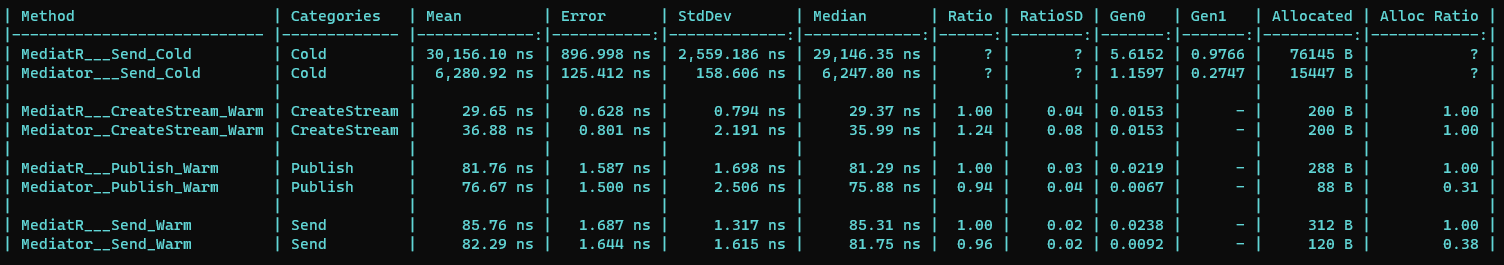
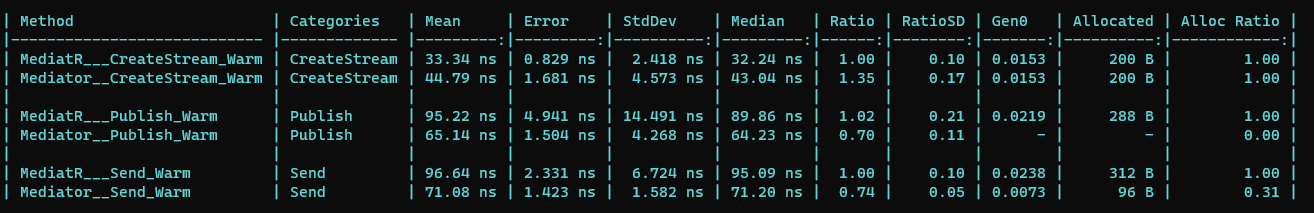
Update CQBus.Mediator to version 1.0.9 and refactor tests
- Bumped CQBus.Mediator package version in README.md.
- Modified benchmarks.png (specific changes not detailed).
- Changed return type of `Publish` method in TaskWhenAllPublisher from `async ValueTask` to `ValueTask`.
- Updated service lifetime assertions in MediatorConfigurationTests and DependencyInjectionTests from `Transient` to `Scoped`.

diff --git a/tests/Mediator.Tests/Configurations/MediatorConfigurationTests.cs b/tests/Mediator.Tests/Configurations/MediatorConfigurationTests.cs
@@ -79,7 +79,7 @@ public class MediatorConfigurationTests
         var options = new MediatorConfiguration();
 
         // Act & Assert
-        Assert.Equal(ServiceLifetime.Transient, options.ServiceLifetime);
+        Assert.Equal(ServiceLifetime.Scoped, options.ServiceLifetime);
     }
 
     [Fact]
@@ -141,7 +141,7 @@ public class MediatorConfigurationTests
         ServiceDescriptor descriptor = options.BehaviorsToRegister[0];
         Assert.Equal(serviceType, descriptor.ServiceType);
         Assert.Equal(implementationType, descriptor.ImplementationType);
-        Assert.Equal(ServiceLifetime.Transient, descriptor.Lifetime);
+        Assert.Equal(ServiceLifetime.Scoped, descriptor.Lifetime);
     }
 
     [Fact]
@@ -182,7 +182,7 @@ public class MediatorConfigurationTests
 
         Assert.Equal(serviceType1, descriptor1.ServiceType);
         Assert.Equal(implementationType1, descriptor1.ImplementationType);
-        Assert.Equal(ServiceLifetime.Transient, descriptor1.Lifetime);
+        Assert.Equal(ServiceLifetime.Scoped, descriptor1.Lifetime);
 
         Assert.Equal(serviceType2, descriptor2.ServiceType);
         Assert.Equal(implementationType2, descriptor2.ImplementationType);
@@ -247,7 +247,7 @@ public class MediatorConfigurationTests
         ServiceDescriptor descriptor = options.BehaviorsToRegister[0];
         Assert.Equal(typeof(IPipelineBehavior<,>), descriptor.ServiceType);
         Assert.Equal(behaviorType, descriptor.ImplementationType);
-        Assert.Equal(ServiceLifetime.Transient, descriptor.Lifetime);
+        Assert.Equal(ServiceLifetime.Scoped, descriptor.Lifetime);
     }
 
     [Fact]
@@ -311,7 +311,7 @@ public class MediatorConfigurationTests
         ServiceDescriptor descriptor = options.StreamBehaviorsToRegister[0];
         Assert.Equal(serviceType, descriptor.ServiceType);
         Assert.Equal(implementationType, descriptor.ImplementationType);
-        Assert.Equal(ServiceLifetime.Transient, descriptor.Lifetime);
+        Assert.Equal(ServiceLifetime.Scoped, descriptor.Lifetime);
     }
 
     [Fact]
@@ -347,7 +347,7 @@ public class MediatorConfigurationTests
         ServiceDescriptor descriptor = options.StreamBehaviorsToRegister[0];
         Assert.Equal(typeof(IStreamPipelineBehavior<,>), descriptor.ServiceType);
         Assert.Equal(behaviorType, descriptor.ImplementationType);
-        Assert.Equal(ServiceLifetime.Transient, descriptor.Lifetime);
+        Assert.Equal(ServiceLifetime.Scoped, descriptor.Lifetime);
     }
 
     [Fact]

diff --git a/src/Mediator/NotificationPublishers/TaskWhenAllPublisher.cs b/src/Mediator/NotificationPublishers/TaskWhenAllPublisher.cs
@@ -5,7 +5,7 @@ namespace CQBus.Mediator.NotificationPublishers;
 
 public class TaskWhenAllPublisher : INotificationPublisher
 {
-    public async ValueTask Publish<TNotification>(
+    public ValueTask Publish<TNotification>(
         INotificationHandler<TNotification>[] handlers,
         TNotification notification,
         CancellationToken cancellationToken)
@@ -13,6 +13,6 @@ public class TaskWhenAllPublisher : INotificationPublisher
     {
         Task[] tasks = handlers.Select(handler => handler.Handle(notification, cancellationToken).AsTask()).ToArray();
 
-        await Task.WhenAll(tasks);
+        return new ValueTask(Task.WhenAll(tasks));
     }
 }

diff --git a/tests/Mediator.Tests/DependencyInjectionTests.cs b/tests/Mediator.Tests/DependencyInjectionTests.cs
@@ -276,7 +276,7 @@ public class DependencyInjectionTests
         // Assert
         ServiceDescriptor? descriptor = services.FirstOrDefault(d => d.ServiceType == typeof(IMediator));
         Assert.NotNull(descriptor);
-        Assert.Equal(ServiceLifetime.Transient, descriptor.Lifetime);
+        Assert.Equal(ServiceLifetime.Scoped, descriptor.Lifetime);
     }
 
     [Fact]

diff --git a/README.md b/README.md
@@ -35,11 +35,11 @@ CQBus.Mediator is a lightweight, extensible library for implementing the Mediato
 Install via NuGet Package Manager:
 
 ```pwsh
-dotnet add package CQBus.Mediator --version 1.0.8
+dotnet add package CQBus.Mediator --version 1.0.9
 ```
 or
 ```xml
-<PackageReference Include="CQBus.Mediator" Version="1.0.8" />
+<PackageReference Include="CQBus.Mediator" Version="1.0.9" />
 ```
 
 
